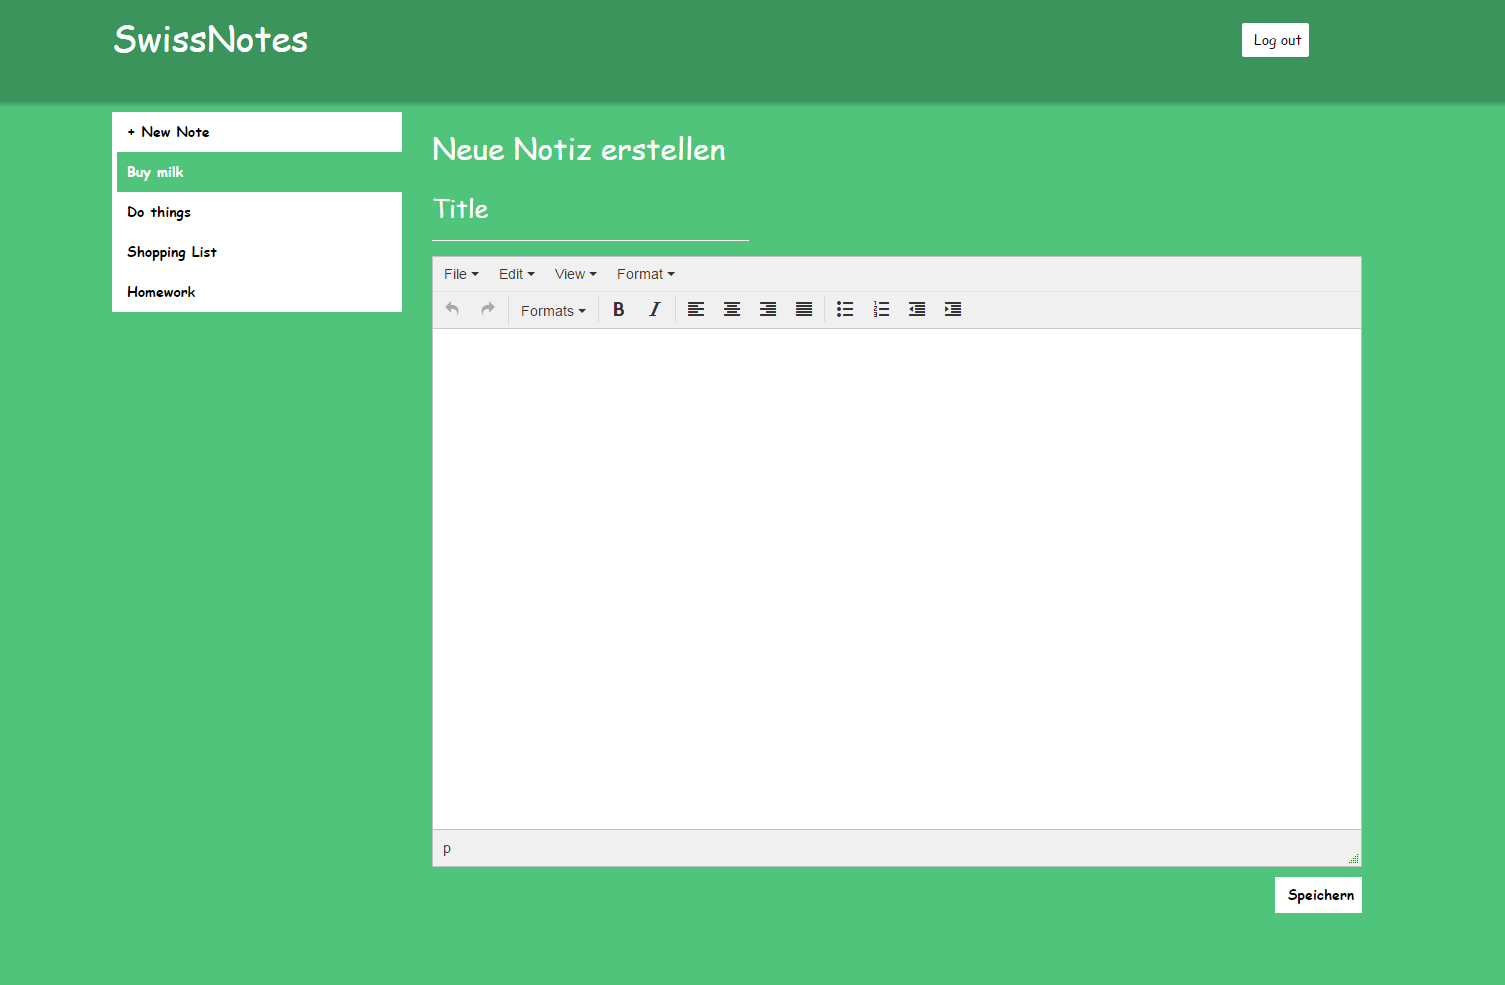
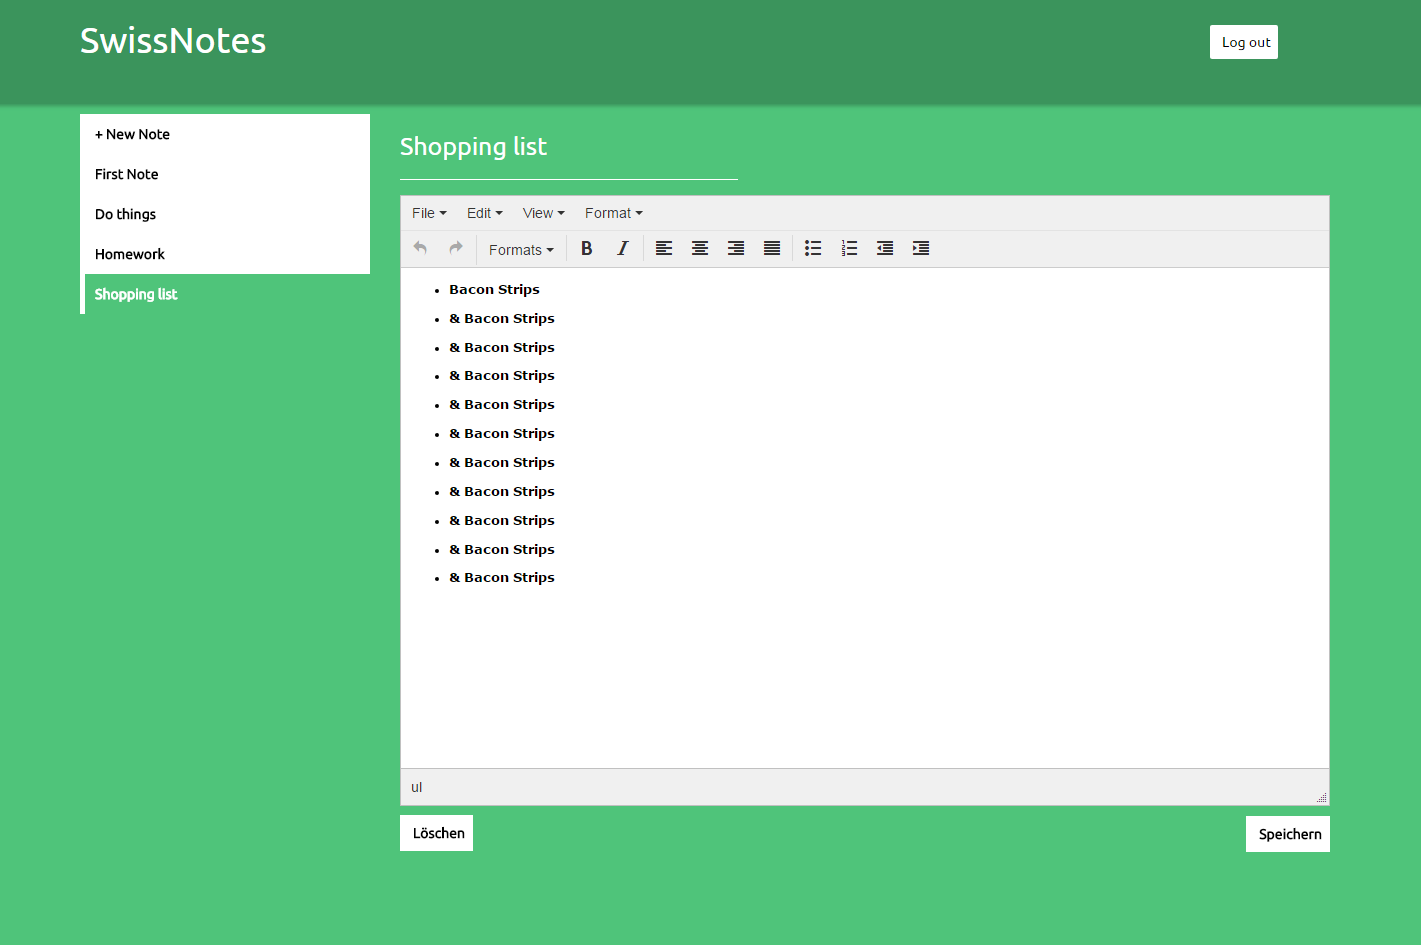
home update

Changed region(s): [[0.0, 0.0921, 1.0, 0.9513], [0.8051, 0.0, 0.898, 0.0614], [0.0619, 0.0307, 0.2167, 0.0614]]

diff --git a/view/static/styles.css b/view/static/styles.css
@@ -38,7 +38,7 @@ body {
   /* background-image: url(bg.jpg); */
     background:#4FC47A;
   color: white;
-  font-family: 'Indie Flower', cursive;
+  font-family: 'Ubuntu', sans-serif;
 }
 
 #icon {
@@ -76,7 +76,7 @@ body {
   border: none;
   border-radius: 2px;
   font-weight: bold;
-  font-family: 'Indie Flower', cursive;
+  font-family: 'Ubuntu', sans-serif;
   color: #5B5B5B;
 }
 
@@ -86,7 +86,7 @@ body {
     margin-top: 10px;
     margin-right:20px;
     float:right;
-    font-family: 'Indie Flower', cursive;
+    font-family: 'Ubuntu', sans-serif;
     font-weight: bold;
     background: white;
     color: black;
@@ -118,7 +118,7 @@ header {
 #login {
   border:none;
   padding:7px;
-  font-family: 'Indie Flower', cursive;
+    font-family: 'Ubuntu', sans-serif;
   background: white;
   color: black;
     border-left: 5px solid white;
@@ -139,7 +139,7 @@ header {
 #register {
   border:none;
   padding:7px;
-  font-family: 'Indie Flower', cursive;
+  font-family: 'Ubuntu', sans-serif;
   border-radius: 2px;
   background: #57C157;
   color: white;
@@ -158,7 +158,7 @@ nav {
 
 .nav_el {
   color: white;
-  font-family: 'Indie Flower', cursive;
+  font-family: 'Ubuntu', sans-serif;
   margin-right: 15px;
 }
 
@@ -312,7 +312,7 @@ input.radio:checked ~ label {
 }
 
 #tinymce .mceContentBody p {
-    font-family: 'Architects Daughter', cursive;
+    font-family: 'Ubuntu', sans-serif;
 }
 
 #error_container{
@@ -334,7 +334,7 @@ input.radio:checked ~ label {
 }
 
 .scrn1 {
-    width:80%;
+    width:90%;
     margin-top:30px;
 }
 
@@ -351,4 +351,8 @@ input.radio:checked ~ label {
 
 .margin50 {
     margin:50px;
+}
+
+.block_inline {
+    display: inline-block;
 }

diff --git a/view/home.php b/view/home.php
@@ -8,7 +8,7 @@
     <!-- custom -->
     <link rel="stylesheet" type="text/css" href="view/static/bootstrap.min.css">
     <link rel="stylesheet" type="text/css" href="view/static/styles.css">
-    <link href='https://fonts.googleapis.com/css?family=Architects+Daughter' rel='stylesheet' type='text/css'>
+    <link href='https://fonts.googleapis.com/css?family=Ubuntu' rel='stylesheet' type='text/css'>
 </head>
 <body>
 <header>
@@ -40,12 +40,15 @@
         <div class="row">
             <div class="col-md-3 nopadding"></div>
             <div class="col-md-6 nopadding">
-                <a href="default/register"><h2 id="login" class="margin50">Jetzt Starten!</h2></a>
+                <a href="default/register"><h2 id="login" class="margin50 txt_center">Jetzt Starten!</h2></a>
             </div>
             <div class="col-md-3 nopadding"></div>
         </div>
         <p class="txt1">Screenshot:</p>
         <img class="scrn1 center" src="view/static/images/screenshot1.png">
+
+        <img class="block_inline" src="view/static/images/swissflag.jpg"><p class="txt1 block_inline"> Swiss Software</p>
+        <p class="txt1 txt_center"> Copyright &copy; SwissNotes - All Rights Reserved</p>
     </div>
     <div class="col-md-2"></div>
 </div>

diff --git a/view/account.php b/view/account.php
@@ -6,7 +6,7 @@
     <link rel="stylesheet" type="text/css" href="view/static/bootstrap.min.css">
     <link rel="icon" type="image/png" href="view/static/images/favicon.png">
     <link rel="stylesheet" type="text/css" href="view/static/styles.css">
-    <link href='https://fonts.googleapis.com/css?family=Architects+Daughter' rel='stylesheet' type='text/css'>
+    <link href='https://fonts.googleapis.com/css?family=Ubuntu' rel='stylesheet' type='text/css'>
     <script src="//cdn.tinymce.com/4/tinymce.min.js"></script>
     <script>tinymce.init({ selector:'textarea' });</script>
     <script src="view/account.js"></script>

diff --git a/view/register.php b/view/register.php
@@ -4,7 +4,7 @@
   <base href="/-K307/">
   <link rel="icon" type="image/png" href="view/static/images/favicon.png">
   <link rel="stylesheet" type="text/css" href="view/static/styles.css">
-  <link href='https://fonts.googleapis.com/css?family=Architects+Daughter' rel='stylesheet' type='text/css'>
+  <link href='https://fonts.googleapis.com/css?family=Ubuntu' rel='stylesheet' type='text/css'>
 </head>
 <body>
   <div id="register_container">

diff --git a/view/login.php b/view/login.php
@@ -4,7 +4,7 @@
   <base href="/-K307/">
   <link rel="icon" type="image/png" href="view/static/images/favicon.png">
   <link rel="stylesheet" type="text/css" href="view/static/styles.css">
-  <link href='https://fonts.googleapis.com/css?family=Architects+Daughter' rel='stylesheet' type='text/css'>
+  <link href='https://fonts.googleapis.com/css?family=Ubuntu' rel='stylesheet' type='text/css'>
 </head>
 <body>
   <div id="form_container">

diff --git a/view/error.php b/view/error.php
@@ -8,7 +8,7 @@
     <!-- custom -->
     <link rel="stylesheet" type="text/css" href="view/static/bootstrap.min.css">
     <link rel="stylesheet" type="text/css" href="view/static/styles.css">
-    <link href='https://fonts.googleapis.com/css?family=Architects+Daughter' rel='stylesheet' type='text/css'>
+    <link href='https://fonts.googleapis.com/css?family=Ubuntu' rel='stylesheet' type='text/css'>
 </head>
 <body>
 <header>
